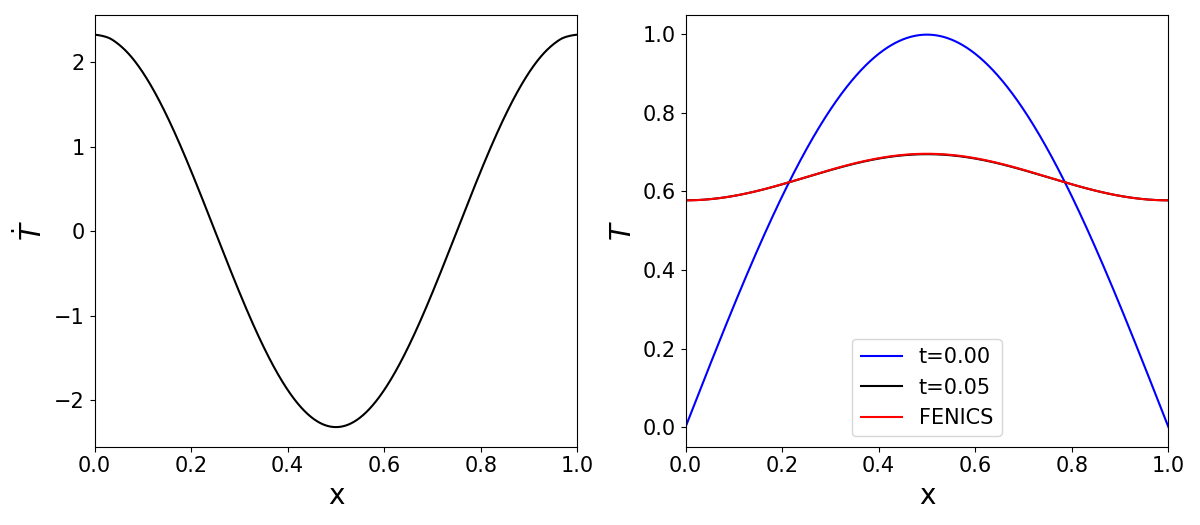
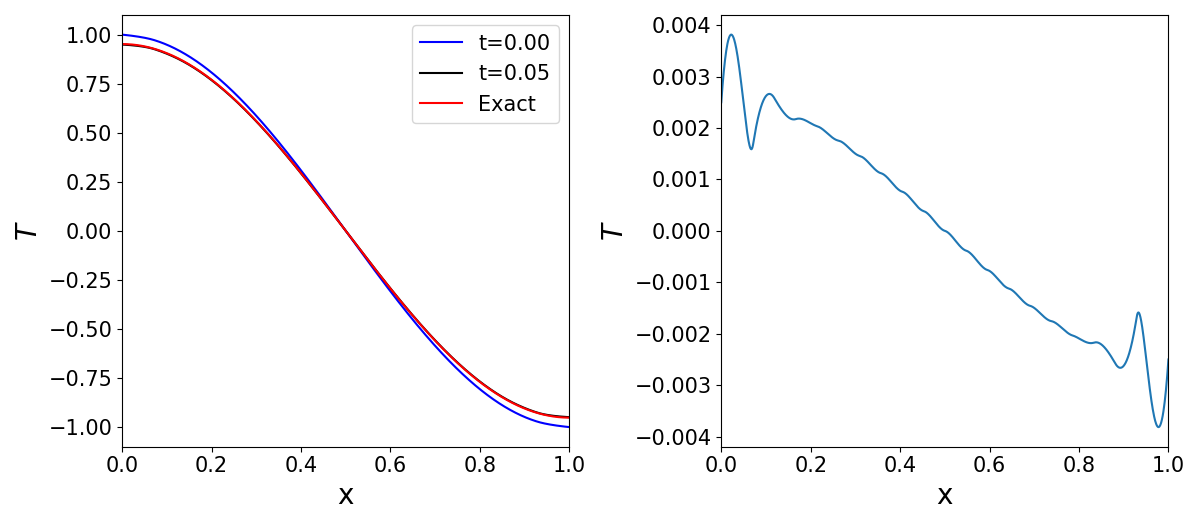
commit

diff --git a/heat_conduction.py b/heat_conduction.py
@@ -1,0 +1,189 @@
+import numpy as np
+import matplotlib.pyplot as plt
+
+import femflex as flex
+from femflex.space import GenericSpace
+
+
+class SpaceEnriched1DIGA(GenericSpace):
+    def __init__(self, mesh, k):
+        super().__init__(mesh, flex.Shape1DIGA(k))
+
+    def _impl_generate_cell_to_dof_mapping(self, **kwargs):
+        ncell = self.mesh().num_cells()
+        dofs = [[i + j for j in range(3)] for i in range(ncell)]
+        return dofs
+
+    def _impl_generate_cell_to_basis_mapping(self, **kwargs):
+        k = self.element().degree
+        ncell = self.mesh().num_cells()
+        if k == 2:
+            def load_basis(n):
+                if n == 0:
+                    return [0, 1, 3]
+                elif n == 2:
+                    return [2, 4, 3]
+                elif n == ncell - 2:
+                    return [5, 4, 6]
+                elif n == ncell - 1:
+                    return [5, 7, 8]
+                else:
+                    return [5, 4, 3]
+
+            basis_fn_id = [load_basis(ic) for ic in range(ncell)]
+        else:
+            raise RuntimeError("Not supported yet.\n")
+        return basis_fn_id
+
+
+rhoc = 0.5
+am = 0.5 * (3 - rhoc) / (1 + rhoc)
+af = 1 / (1 + rhoc)
+gamma = 0.5 + am - af
+dt = 1e-3/16
+k0, k1 = 1.0e0, 1.0e0
+
+
+def qr(n=4):
+    sqrt = np.sqrt
+    asarray = np.asarray
+    if n == 1:
+        gp = asarray([0.0])
+        gw = asarray([2.0])
+    elif n == 2:
+        p = sqrt(1/3)
+        gp = asarray([p, -p])
+        gw = asarray([1.0, 1.0])
+    elif n == 3:
+        gp = asarray([-np.sqrt(3/5), 0.0, np.sqrt(3/5)])
+        gw = asarray([5, 8, 5]) / 9
+    elif n == 4:
+        p0 = sqrt(3/7-2/7*np.sqrt(6/5))
+        p1 = sqrt(3/7+2/7*np.sqrt(6/5))
+        gp = asarray([-p1, -p0, p0, p1])
+        w0 = 0.5 - np.sqrt(30) / 36
+        w1 = 0.5 + np.sqrt(30) / 36
+        gw = asarray([w0, w1, w1, w0])
+
+    return (gp + 1) * 0.5, gw * 0.5
+
+
+def assemble(space: GenericSpace, dT1: np.ndarray,
+             dT0: np.ndarray, T0: np.ndarray) -> np.ndarray:
+    ndof = space.num_dofs()
+    R = np.zeros((ndof,))
+    mesh = space.mesh()
+    ncell = space.mesh().num_cells()
+    element = space.element()
+    for ic in range(ncell):
+        basis_dof = space.cell_basis(ic)
+        dof = space.cell_dof(ic)
+        xx = mesh.cell_coordinates(ic)
+        gp, gw = qr()
+        basis_val = element.eval(gp, order=0, index=basis_dof)
+        basis_grad_val = element.eval(gp, order=1, index=basis_dof)
+
+        dxdxi = np.dot(xx.squeeze(), basis_grad_val)
+        detJ = np.abs(dxdxi)
+        basis_grad_val /= dxdxi
+        dT1_val = np.dot(dT1[dof], basis_val)
+        dT0_val = np.dot(dT0[dof], basis_val)
+        dTm_val = am * dT1_val + (1 - am) * dT0_val
+        gradTm_val = T0[dof].dot(basis_grad_val)
+        + dt * af * (gamma * dT1[dof].dot(basis_grad_val)
+                     + (1 - gamma) * dT0[dof].dot(basis_grad_val))
+        Rcell = np.dot(basis_val, dTm_val * gw * detJ) \
+            + np.dot(basis_grad_val, k0 * gradTm_val * gw * detJ)
+        R[dof] += Rcell
+    return R
+
+
+def evaluate_vec(space, v, n=100):
+    mesh = space.mesh()
+    xp = []
+    vp = []
+    element = space.element()
+    for ic in range(mesh.num_cells()):
+        xc = mesh.cell_coordinates(ic).squeeze()
+        basis_dof = space.cell_basis(ic)
+        dofs = space.cell_dof(ic)
+
+        xi = np.linspace(0, 1, n+1)
+        basis_val = element.eval(xi, order=0, index=basis_dof)
+        xp += xc.dot(basis_val).tolist()
+        vp += v[dofs].dot(basis_val).tolist()
+    return xp, vp
+
+
+def evaluate_error(v0, v1):
+    n = v0.shape[0]
+    return np.linalg.norm(v0 - v1) / np.sqrt(n), np.max(v0 - v1)
+
+
+def main(nntime=100, visual=True):
+    mesh = flex.IntervalMesh(5, 2)
+    space = SpaceEnriched1DIGA(mesh, 2)
+    ndof = space.num_dofs()
+    dT1 = np.zeros((ndof,))
+    dT0 = np.zeros((ndof,))
+    T0 = np.zeros((ndof,))
+    for i in range(ndof):
+        T0[i] = np.cos(np.pi*i/(ndof-1)) * 1.0
+    #T0[-1] = 0.0
+    Tinit = T0.copy()
+    from scipy.optimize import root
+    for i in range(nntime):
+        print(f'i={i+1}, time={i*dt+dt}')
+        dT1 *= (gamma - 1) / gamma
+        sol = root(lambda dTem: assemble(space, dTem, dT0, T0),
+                   dT1, tol=1e-12, method='hybr')
+
+        dT1[:] = sol.x
+        T0[:] += dt * (gamma * dT1 + (1 - gamma) * dT0)
+        dT0[:] = dT1[:]
+    np.savetxt(f'tem{i+1}.txt', T0)
+
+    if visual:
+        plt.figure(figsize=(8*1.5, 3.5*1.5))
+        plt.subplot(121)
+        xp, yp = evaluate_vec(space, Tinit)
+        plt.plot(xp, yp, 'b', label='t=0.00')
+        xp, yp = evaluate_vec(space, T0)
+        plt.plot(xp, yp, 'k', label='t=0.05')
+        Tp = np.exp(-np.pi**2*0.005) * np.cos(np.pi*np.array(xp))
+        plt.plot(xp, Tp, 'r', label='Exact')
+        plt.xlabel('x', fontsize=20)
+        plt.ylabel(r'${T}$', fontsize=20)
+        plt.xticks(fontsize=15)
+        plt.yticks(fontsize=15)
+        plt.xlim([0, 1])
+        plt.legend(fontsize=15)
+        plt.tight_layout()
+        plt.subplot(122)
+        plt.plot(xp, Tp - yp)
+        plt.xlabel('x', fontsize=20)
+        plt.ylabel(r'${T}$', fontsize=20)
+        plt.xticks(fontsize=15)
+        plt.yticks(fontsize=15)
+        plt.xlim([0, 1])
+        plt.tight_layout()
+        plt.savefig('./cmp.png')
+        #Tp = np.interp(xp, ref[:, 0], ref[:, 1])
+        print(evaluate_error(Tp, yp))
+
+
+def profiling(f, turn_on):
+    def func(*args):
+        import yappi
+        yappi.set_clock_type("cpu")
+        yappi.start()
+        ret = f(*args)
+        yappi.stop()
+        yappi.get_func_stats().print_all(out=open('prof.txt', 'w'))
+        return ret
+    return func if turn_on else f
+
+
+if __name__ == '__main__':
+    main = profiling(main, 0)
+    main(5*16)

diff --git a/poisson.py b/poisson.py
@@ -44,7 +44,7 @@ dt = 1e-3/16
 k0, k1 = 1.0e0, 1.0e0
 
 
-def qr(n=3):
+def qr(n=4):
     sqrt = np.sqrt
     asarray = np.asarray
     if n == 1:
@@ -68,8 +68,7 @@ def qr(n=3):
     return (gp + 1) * 0.5, gw * 0.5
 
 
-def assemble(space: GenericSpace, dT1: np.ndarray,
-             dT0: np.ndarray, T0: np.ndarray) -> np.ndarray:
+def assemble(space: GenericSpace, T0: np.ndarray) -> np.ndarray:
     ndof = space.num_dofs()
     R = np.zeros((ndof,))
     mesh = space.mesh()
@@ -86,14 +85,8 @@ def assemble(space: GenericSpace, dT1: np.ndarray,
         dxdxi = np.dot(xx.squeeze(), basis_grad_val)
         detJ = np.abs(dxdxi)
         basis_grad_val /= dxdxi
-        dT1_val = np.dot(dT1[dof], basis_val)
-        dT0_val = np.dot(dT0[dof], basis_val)
-        dTm_val = am * dT1_val + (1 - am) * dT0_val
         gradTm_val = T0[dof].dot(basis_grad_val)
-        + dt * af * (gamma * dT1[dof].dot(basis_grad_val)
-                     + (1 - gamma) * dT0[dof].dot(basis_grad_val))
-        Rcell = np.dot(basis_val, dTm_val * gw * detJ) \
-            + np.dot(basis_grad_val, k0 * gradTm_val * gw * detJ)
+        Rcell = np.dot(basis_grad_val, k0 * gradTm_val * gw * detJ)
         R[dof] += Rcell
     return R
 
@@ -117,26 +110,26 @@ def evaluate_vec(space, v, n=100):
 
 def evaluate_error(v0, v1):
     n = v0.shape[0]
-    return np.linalg.norm(v0 - v1) / np.sqrt(n)
+    return np.linalg.norm(v0 - v1) / np.sqrt(n), np.max(v0 - v1)
 
 
 def main(nntime=100, visual=True):
-    mesh = flex.IntervalMesh(40, 2)
+    mesh = flex.IntervalMesh(5, 2)
     space = SpaceEnriched1DIGA(mesh, 2)
     ndof = space.num_dofs()
     dT1 = np.zeros((ndof,))
     dT0 = np.zeros((ndof,))
     T0 = np.zeros((ndof,))
     for i in range(ndof):
-        T0[i] = np.sin(np.pi*i/(ndof-1)) * 1.0
-    T0[-1] = 0.0
+        T0[i] = np.cos(np.pi*i/(ndof-1)) * 1.0
+    #T0[-1] = 0.0
     Tinit = T0.copy()
     from scipy.optimize import root
     for i in range(nntime):
         print(f'i={i+1}, time={i*dt+dt}')
         dT1 *= (gamma - 1) / gamma
         sol = root(lambda dTem: assemble(space, dTem, dT0, T0),
-                   dT1, tol=1e-6, method='hybr')
+                   dT1, tol=1e-12, method='hybr')
 
         dT1[:] = sol.x
         T0[:] += dt * (gamma * dT1 + (1 - gamma) * dT0)
@@ -146,21 +139,12 @@ def main(nntime=100, visual=True):
     if visual:
         plt.figure(figsize=(8*1.5, 3.5*1.5))
         plt.subplot(121)
-        xp, yp = evaluate_vec(space, dT1)
-        plt.plot(xp, yp, 'k')
-        plt.xlabel('x', fontsize=20)
-        plt.ylabel(r'$\dot{T}$', fontsize=20)
-        plt.xticks(fontsize=15)
-        plt.yticks(fontsize=15)
-        plt.xlim([0, 1])
-        plt.tight_layout()
-        plt.subplot(122)
         xp, yp = evaluate_vec(space, Tinit)
         plt.plot(xp, yp, 'b', label='t=0.00')
         xp, yp = evaluate_vec(space, T0)
         plt.plot(xp, yp, 'k', label='t=0.05')
-        ref = np.loadtxt('ref.txt')
-        plt.plot(ref[:, 0], ref[:, 1], 'r', label='FENICS')
+        Tp = np.exp(-np.pi**2*0.005) * np.cos(np.pi*np.array(xp))
+        plt.plot(xp, Tp, 'r', label='Exact')
         plt.xlabel('x', fontsize=20)
         plt.ylabel(r'${T}$', fontsize=20)
         plt.xticks(fontsize=15)
@@ -168,8 +152,16 @@ def main(nntime=100, visual=True):
         plt.xlim([0, 1])
         plt.legend(fontsize=15)
         plt.tight_layout()
+        plt.subplot(122)
+        plt.plot(xp, Tp - yp)
+        plt.xlabel('x', fontsize=20)
+        plt.ylabel(r'${T}$', fontsize=20)
+        plt.xticks(fontsize=15)
+        plt.yticks(fontsize=15)
+        plt.xlim([0, 1])
+        plt.tight_layout()
         plt.savefig('./cmp.png')
-        Tp = np.interp(xp, ref[:, 0], ref[:, 1])
+        #Tp = np.interp(xp, ref[:, 0], ref[:, 1])
         print(evaluate_error(Tp, yp))
 
 
@@ -187,4 +179,4 @@ def profiling(f, turn_on):
 
 if __name__ == '__main__':
     main = profiling(main, 0)
-    main(800)
+    main(5*16)

diff --git a/fenics.py b/fenics.py
@@ -1,9 +1,13 @@
+import sys
 import numpy as np
 from dolfin import *
 import matplotlib.pyplot as plt
 
-dt = 1e-3
-mesh = IntervalMesh(1024*8, 0, 1)
+dt = 1e-3/16
+n = 40
+if len(sys.argv) == 2:
+    n = int(sys.argv[1])
+mesh = IntervalMesh(n, 0, 1)
 
 element = FiniteElement('CG', mesh.ufl_cell(), 1)
 W = FunctionSpace(mesh, element)
@@ -25,21 +29,28 @@ F = dot(v, dTm) * dx + dot(grad(v), grad(Tm)) * dx
 
 class Init(UserExpression):
     def eval(self, values, x):
-        values[0] = np.sin(np.pi * x)
+        values[0] = np.cos(np.pi * x)
     def value_shape(self):
         return ()
 
 if __name__ == '__main__':
+    set_log_level(50)
     T0.interpolate(Init())
-    for i in range(50):
+    for i in range(80):
         dT1.vector()[:] = (gamma - 1) / gamma
         solve(F == 0, dT1)
         T0.vector()[:] += dt * (gamma * dT1.vector() + (1 - gamma) * dT0.vector())
         dT0.vector()[:] = dT1.vector()
 
-    y = T0.compute_vertex_values().reshape(-1, 1)
-    x = mesh.coordinates()
+    #x = mesh.coordinates().squeeze()
+    x = np.linspace(0, 1, 1001)
+    #y = T0.compute_vertex_values().squeeze()
+    y = np.array([T0(xc) for xc in x])
     plt.plot(x, y)
+    T = np.exp(-pi**2*0.005) * np.cos(pi*x)
+    plt.plot(x, T)
     plt.show()
     
-    np.savetxt('ref.txt', np.hstack((x,y)))
+    pi = np.pi
+    print(np.linalg.norm(T - y) / np.sqrt(T.shape[0]), np.max(T-y))
+    #np.savetxt('ref.txt', np.hstack((x,y)))

diff --git a/plot.py b/plot.py
@@ -1,7 +1,11 @@
 import numpy as np
 import matplotlib.pyplot as plt
 
-e = [0.00063707859, 0.0020569838707, 0.0075703609715]
+#e = [0.00063707859, 0.0020569838707, 0.0075703609715]
+e=[]
+e.append(0.00036170741367984863)
+e.append(0.001266019025124287)
+e.append(0.004537312895183812)
 x = 1/np.array([40, 20, 10])
 
 plt.loglog(x, e, c='b', label='2nd iga')
